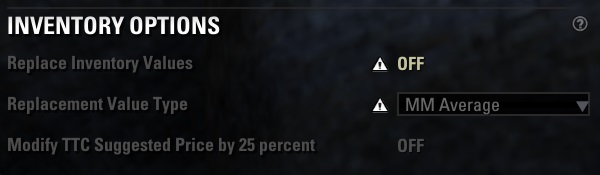
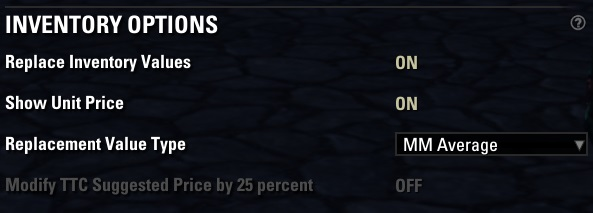
Update inventory options Add image for replacing prices in inventory

diff --git a/3-master_merchant.html b/3-master_merchant.html
@@ -149,43 +149,53 @@ title: Master Merchant
 <p class="empty">&nbsp;</p>
 <h2 id="ForPlayersnotinaTradingGuild">3.1.1 - For Players not in a Trading Guild:</h2>
 <p>Use Bonanza to search for deals. It creates a virtual Auction House of sorts. Searches remain in the Bonanza window for 24 hours. An average price is generated depending on how many of each item you find. However, you will want to filter for items in the Bonanza window to seek out the cheapest price for items found.</p>
+<p class="list-1">&bull;&nbsp; View items purchased from any kiosk (Shopping List)</p>
+<p class="list-1">&bull;&nbsp; View items listed at kiosks you have visited (Bonanza)</p>
+<p class="list-1">&bull;&nbsp; Right click menu to quickly search Bonanza for the item</p>
+<p class="list-1">&bull;&nbsp; Mark writs on the Guild Store menu you can craft (Writ Worthy required)</p>
+<p class="list-1">&bull;&nbsp; Mark items sold for more then the vendor price</p>
 <h2 id="ForTradingGuilds">3.1.2 - For Trading Guilds:</h2>
 <p class="list-1">&bull;&nbsp; See who your Guild’s top sellers are and what they are selling</p>
 <p class="list-1">&bull;&nbsp; See your total Guild Sales and Sales Tax income</p>
+<p class="list-1">&bull;&nbsp; Export Sales Report or Sales Activity</p>
 <h2 id="ForTradeGuildMembers">3.1.3 - For Trade Guild Members:</h2>
 <p class="list-1">&bull;&nbsp; View your personal sales</p>
 <p class="list-1">&bull;&nbsp; View items you have listed for sale</p>
 <p class="list-1">&bull;&nbsp; View your canceled items</p>
-<p class="list-1">&bull;&nbsp; View items purchased from any kiosk (Shopping List)</p>
-<p class="list-1">&bull;&nbsp; View items listed at kiosks you have visited (Bonanza)</p>
 <p class="list-1">&bull;&nbsp; View Guild Sales by other members</p>
 <p class="list-1">&bull;&nbsp; Show sales by total price or price each</p>
 <p class="list-1">&bull;&nbsp; View a ranked report of items sold by other Guild Members</p>
-<p class="list-1">&bull;&nbsp; Deal Finder flags items at kiosks</p>
+<p class="list-1">&bull;&nbsp; Deal Calculator flags items at kiosks</p>
    <p class="list-2">&bull;&nbsp; Use TTC, MM, or Bonanza prices</p>
+   <p class="list-2">&bull;&nbsp; Custom Deal Calculator settings available</p>
+   <p class="list-2">&bull;&nbsp; Sort by Deal Percentage</p>
 <p class="list-1">&bull;&nbsp; Writs are separated by voucher count</p>
-<p class="list-1">&bull;&nbsp; Craft cost added to tooltip</p>
+<p class="list-1">&bull;&nbsp; Craft cost added to tooltip, including Potions and Poisons</p>
+   <p class="list-2">&bull;&nbsp; Material Cost for Winter Festival Writs (BETA)</p>
 <p class="list-1">&bull;&nbsp; Autofill a price check into chat to share with other members</p>
 <p class="list-1">&bull;&nbsp; MM automatically saves the last price of any item you list for sale (Awesome Guild Store overrides this feature but provides a similar function)</p>
 <p class="list-1">&bull;&nbsp; View suggested MM price when listing items for sale</p>
 <p class="list-1">&bull;&nbsp; Search any item from any view and filter for specific items</p>
 <p class="list-1">&bull;&nbsp; Toggle to ignore outlier prices (Can be defeated, view documentation)</p>
 <p class="list-1">&bull;&nbsp; Set custom time ranges for SHIFT, CTRL or both.</p>
-<p class="list-1">&bull;&nbsp; Custom Deal Calculator settings available</p>
 <p class="list-1">&bull;&nbsp; Toggle for additional Guild Roster Columns</p>
 <p class="list-1">&bull;&nbsp; Show condensed TTC information in tooltip</p>
    <p class="list-2">&bull;&nbsp; When using this option it is recommended that you toggle the TTC default tooltip off</p>
 <p class="list-1">&bull;&nbsp; Replace inventory prices with TTC or MM average price (Will affect performance)</p>
+   <p class="list-2">&bull;&nbsp; Toggle whether or not to show the unit price</p>
 <p class="list-1">&bull;&nbsp; Stack Price calculator (Awesome Guild Store overrides this feature but provides a similar function)</p>
 <p class="list-1">&bull;&nbsp; Add sellers to the Guild & Account filter from Graph and some MM UI Views</p>
 <p class="list-1">&bull;&nbsp; Import ATT sales</p>
 <p class="list-1">&bull;&nbsp; Import old MM Sales prior to 06/01/2021</p>
    <p class="list-2">&bull;&nbsp; Prior to version 3.6.46</p>
-   <p class="empty">&nbsp;</p>
+<p class="list-1">&bull;&nbsp; Export Personal Sales or Purchases</p>
+<p class="empty">&nbsp;</p>
+<p class="note"> Craft cost will be affected by your skill in Chemistry, Chef, and Brewer.</p>
+<p class="empty">&nbsp;</p>
 <h1 class="header1" id="SetupMasterMerchant30">3.2 - Setup Master Merchant 3.0</h1>
-   <p class="empty">&nbsp;</p>
+<p class="empty">&nbsp;</p>
 <h2 class="header2" id="InaNutshell">3.2.1 - In a Nutshell</h2>
-   <p class="empty">&nbsp;</p>
+<p class="empty">&nbsp;</p>
 <p class="list-1">&bull;&nbsp; Install Master Merchant 3.0</p>
 <p class="list-1">&bull;&nbsp; Log In</p>
 <p class="list-1">&bull;&nbsp; Wait for Refresh to finish</p>
@@ -676,6 +686,8 @@ title: Master Merchant
 <p>{% include image.html file="img/inventory_options.jpg" alt="inventory_options" %}</p>
 <p class="empty">&nbsp;</p>
 <p class="list-1">&bull;&nbsp; <font class="tan">Modify TTC Suggested Price by 25 percent</font>: When enabled will add 25 percent to the Suggested Price shown in the inventory. This is the same value as shown in the TTC Tooltip. See the <font class="tan">Modified Suggested Price</font> <a  href="#modifiedsuggestedprice" >spoiler above</a> for an example.</p>
+<p class="empty">&nbsp;</p>
+<p>{% include image.html file="img/replace_price.jpg" alt="replace_price" %}</p>
 <p class="empty">&nbsp;</p>
 <h3 class="header3" id="GuildStoreOptions">3.14.1.11 - Guild Store Options</h3>
 <p class="empty">&nbsp;</p>
